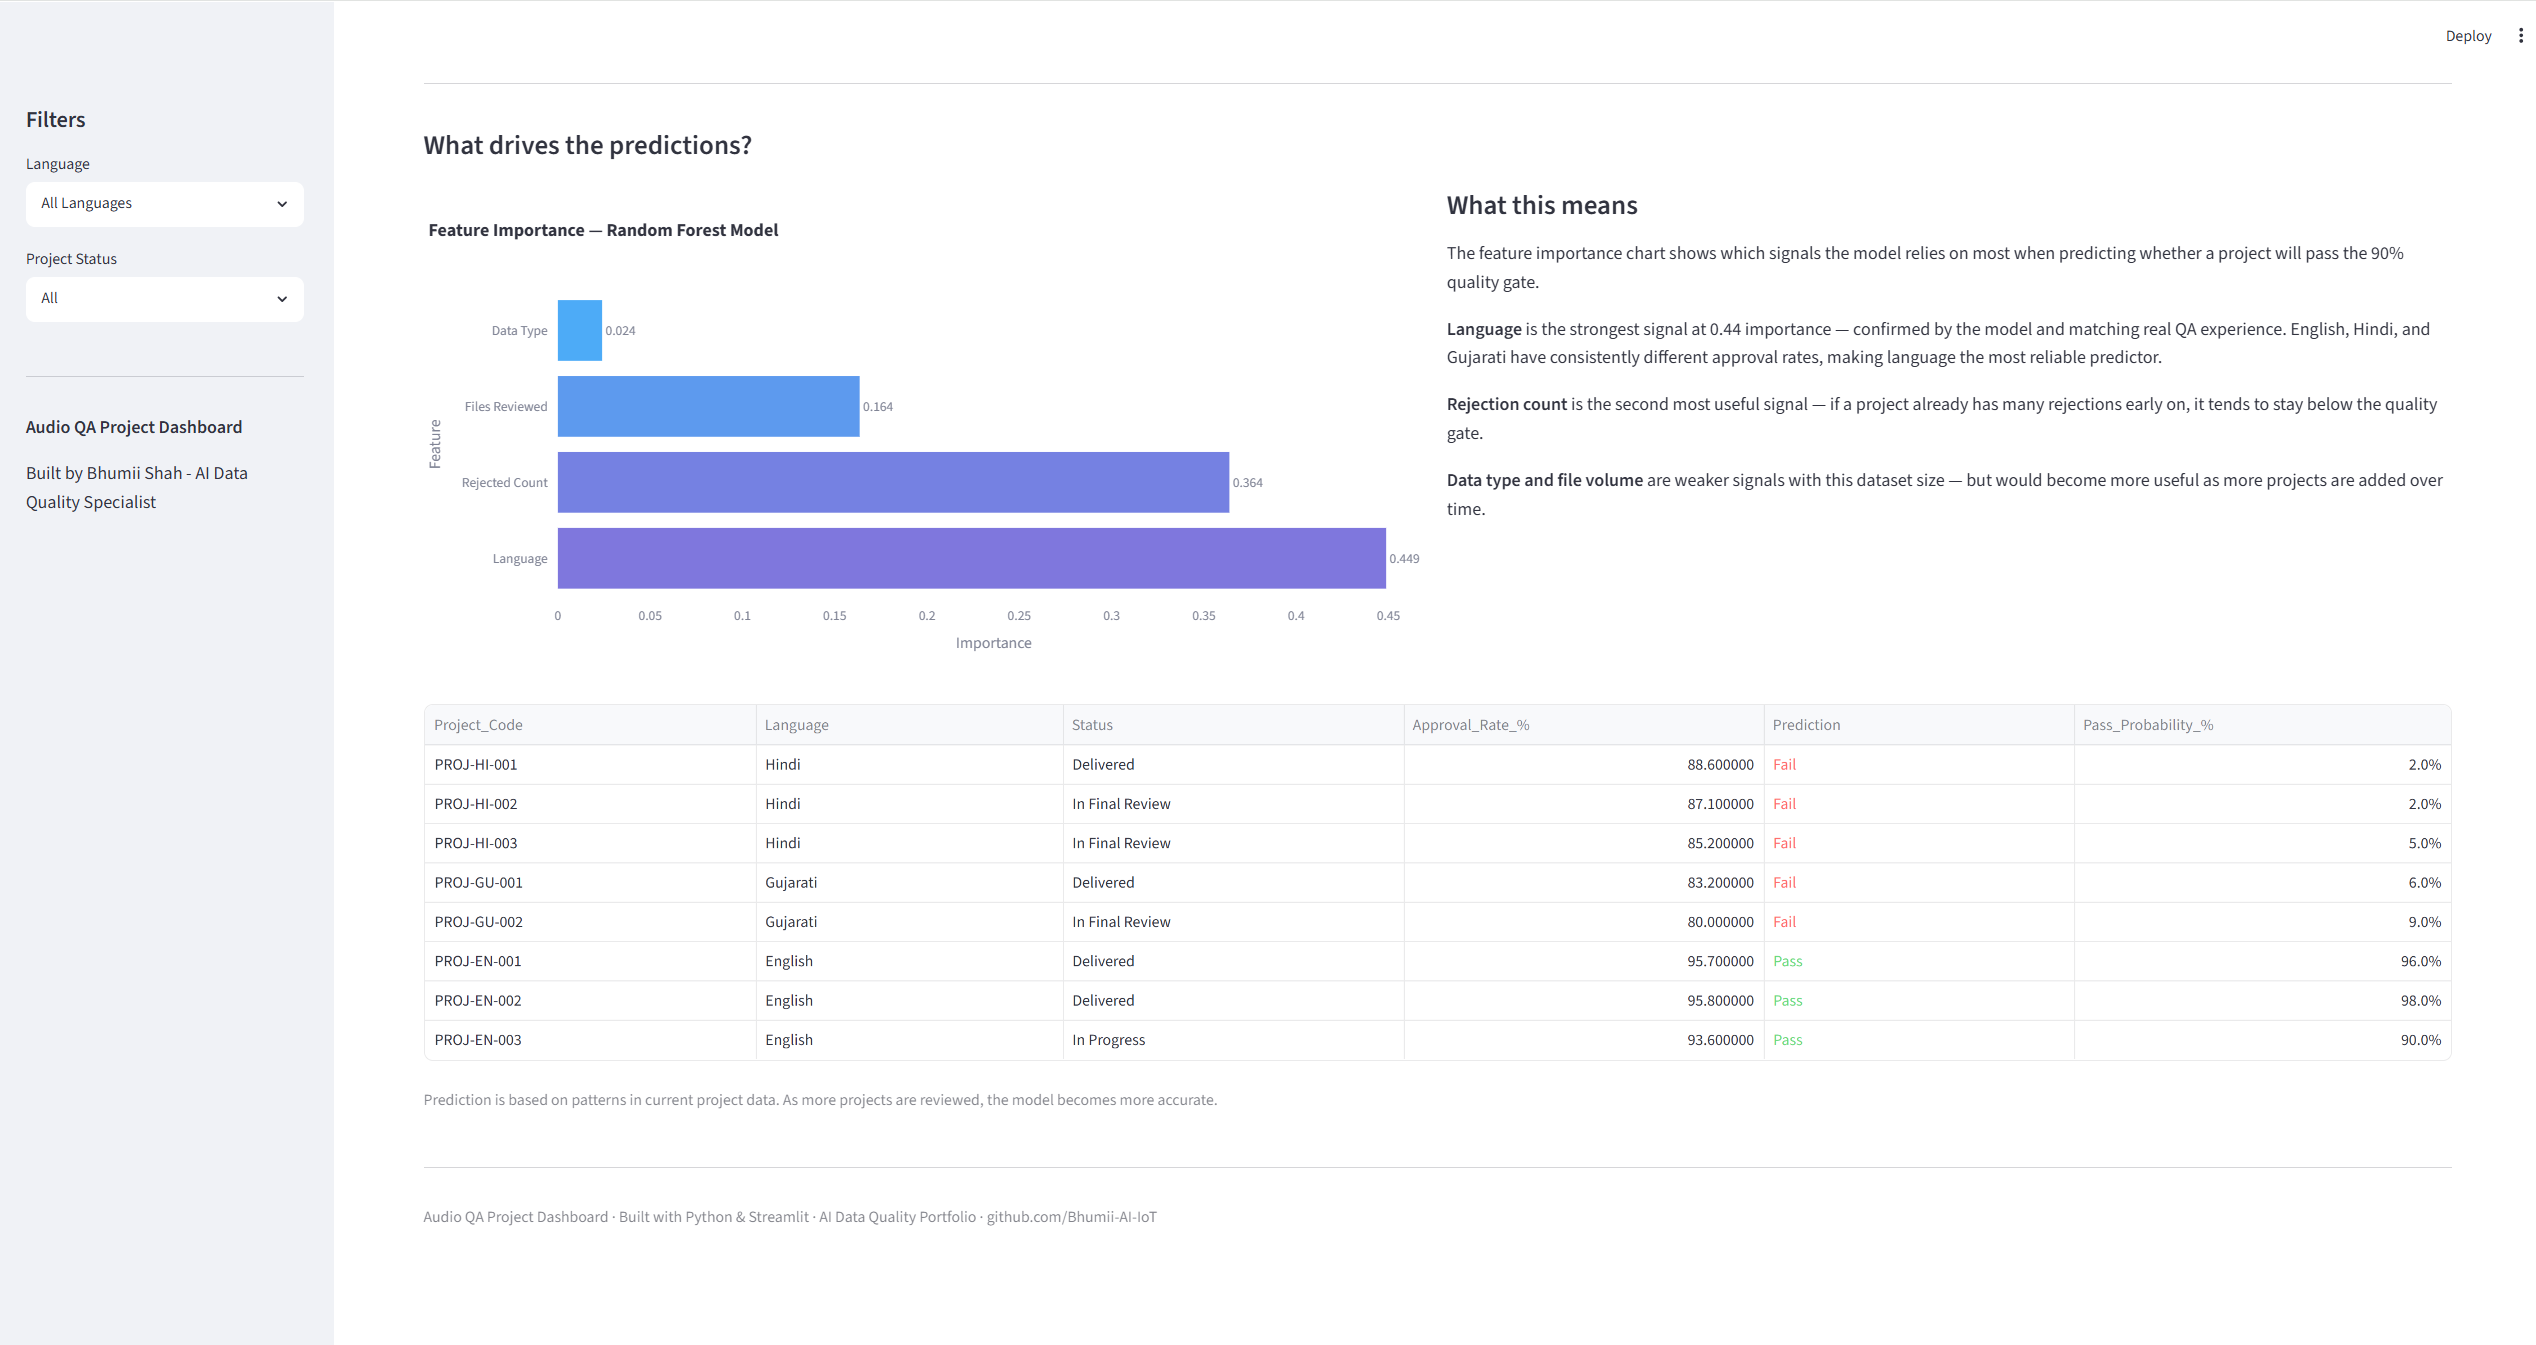
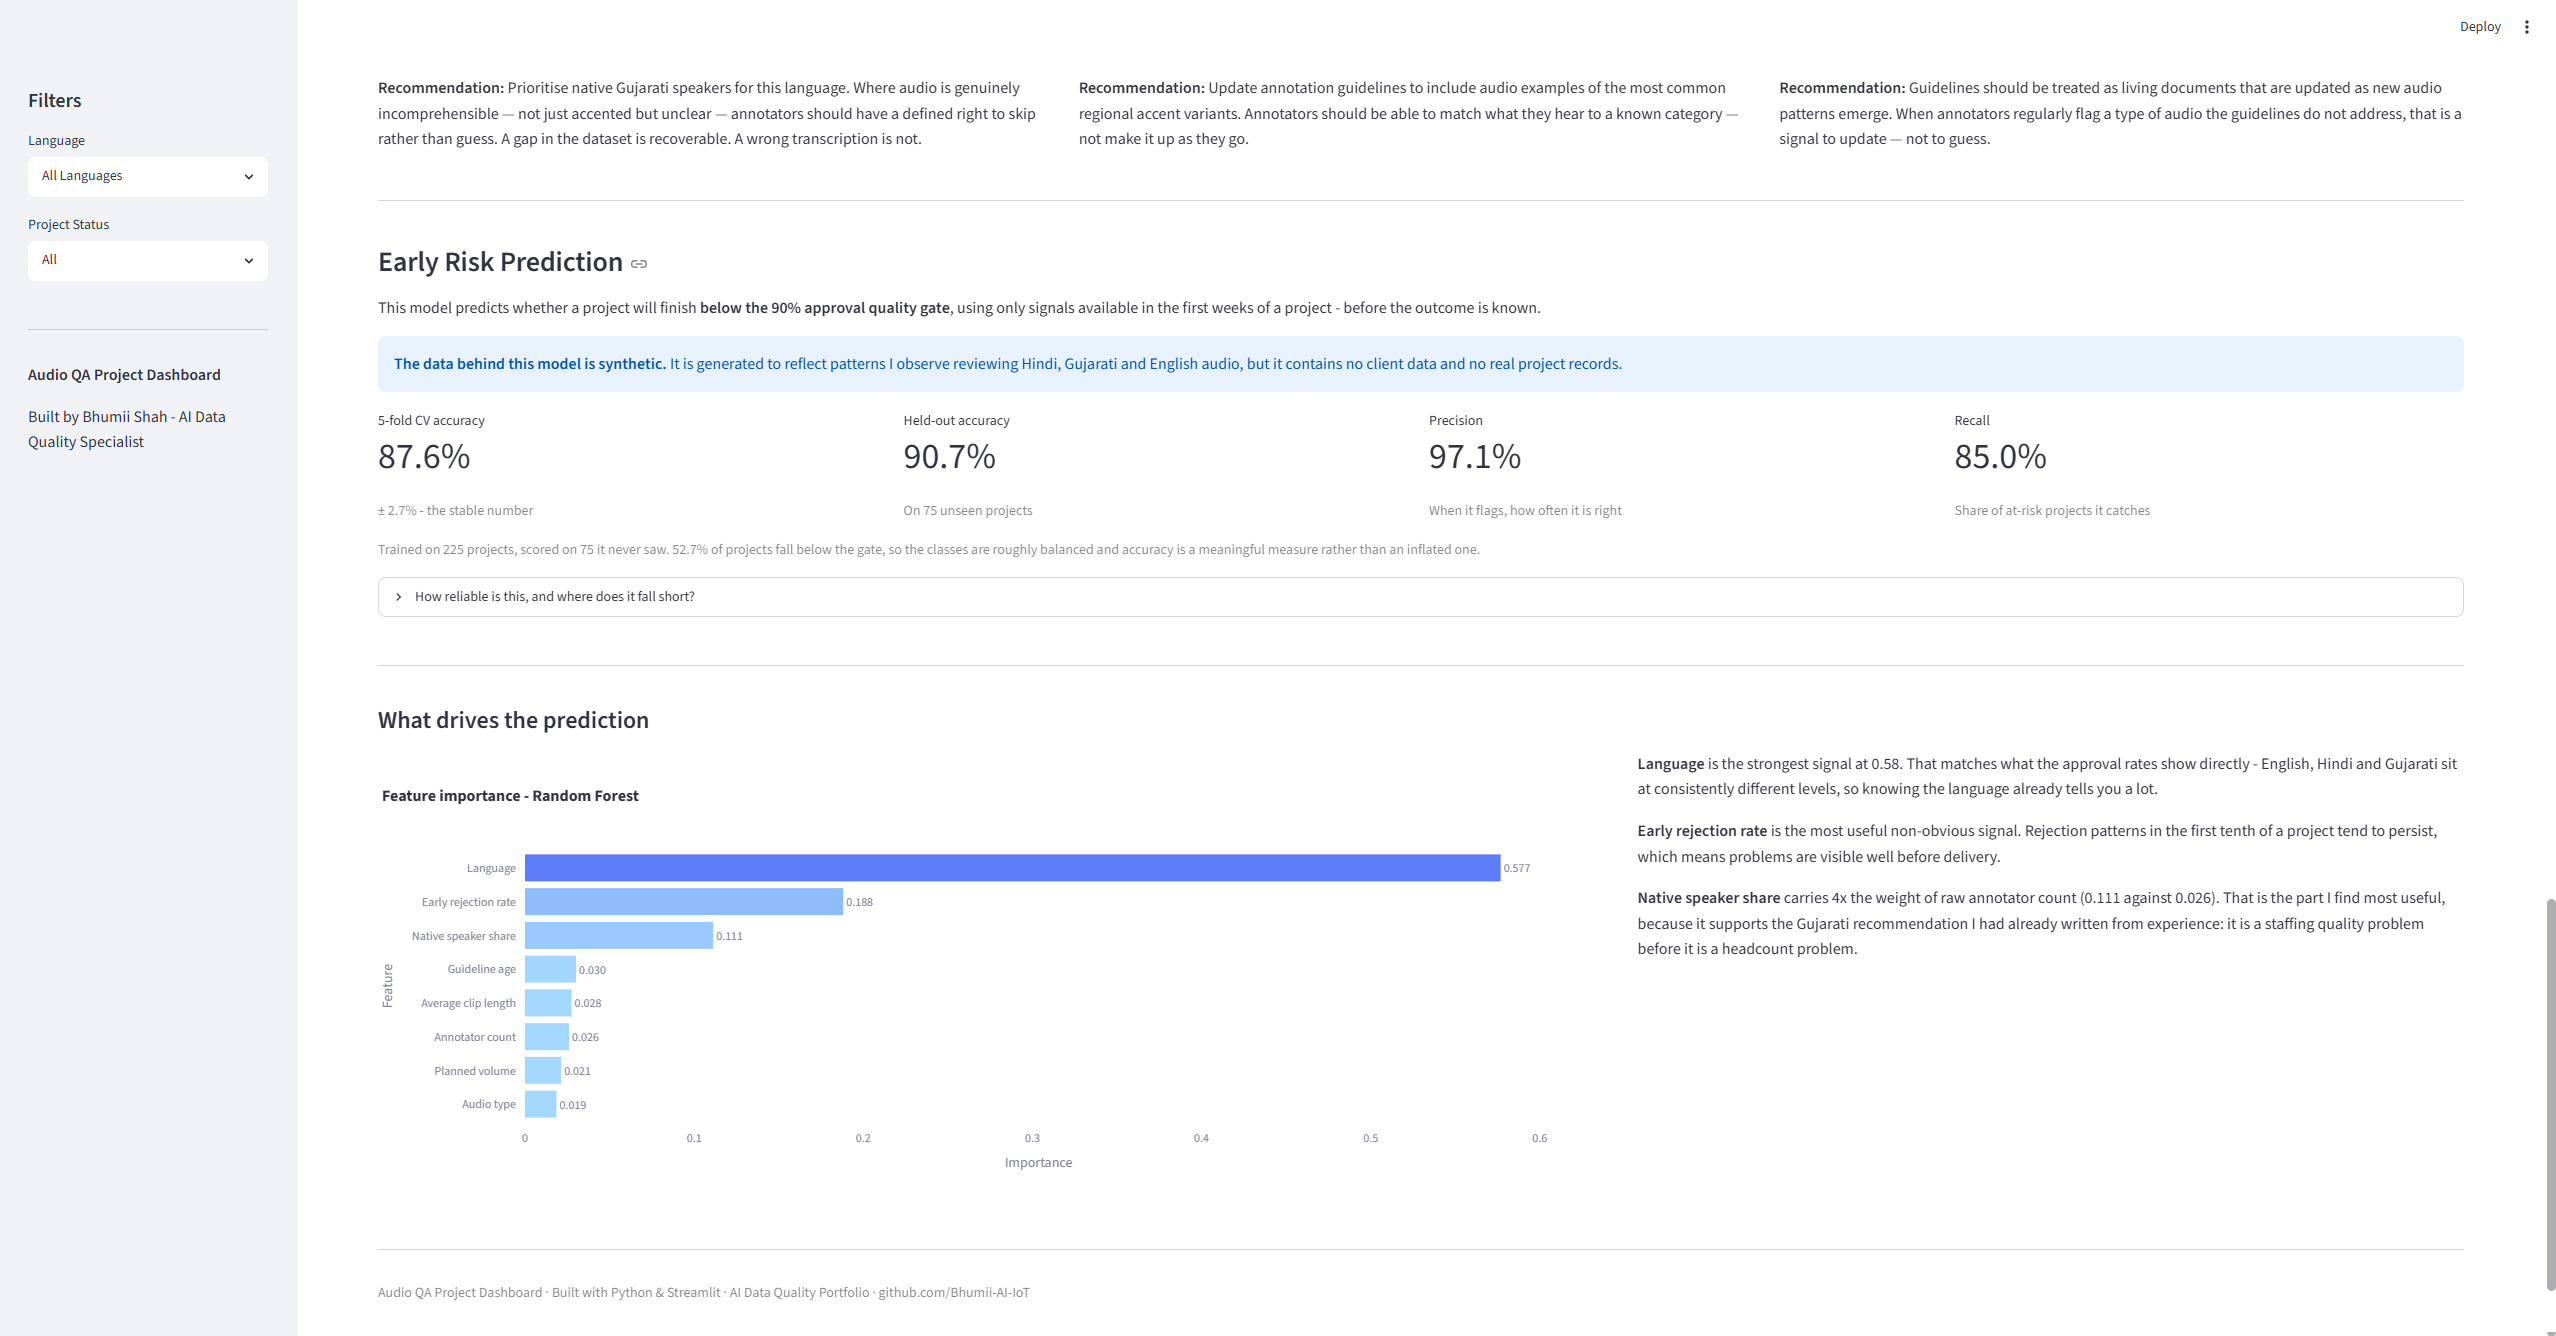
update screenshot and heading for corrected ML section

diff --git a/README.md b/README.md
@@ -34,7 +34,7 @@ Audio data quality is not just about catching errors. It is about understanding 
 ### Overview & QA Metrics
 ![Dashboard Top](assets/dashboard-top.png)
 
-### Project Tracker, Risk Flags & Recommendations
+### Recommendations & Early Risk Prediction
 ![Dashboard Bottom](assets/dashboard-bottom.png)
 
 ## Project Architecture
@@ -48,7 +48,7 @@ Audio data quality is not just about catching errors. It is about understanding 
 - **Rejection Reason Breakdown** — the most common errors caught during final QA review
 - **Project Tracker** — delivery status across all active projects
 - **Risk Flag Monitor** — open blockers with severity levels and descriptions
-- **ML Risk Predictions** — a Random Forest model predicts which projects are likely to pass or fail the 90% quality gate based on language, data type, file volume, and rejection count
+- **Early Risk Prediction** — a Random Forest model predicts which projects will finish below the 90% quality gate, using only signals available in the first weeks of a project
 - **Recommendations** — based on real patterns observed during daily QA review
 
 ## Key Findings
@@ -61,8 +61,9 @@ These are not things I read somewhere — they come from doing the reviews mysel
 
 ## ML Model - Risk Prediction
 
-The dashboard includes a Random Forest classifier that predicts which projects 
-are at risk of failing the 90% quality gate.
+The dashboard includes a Random Forest classifier that predicts which
+projects will finish below the 90% quality gate — using only signals
+available in the first weeks, before the outcome is known.
 
 **Why Random Forest:**
 - Handles mixed data types (language category + numeric metrics)
@@ -73,12 +74,61 @@ are at risk of failing the 90% quality gate.
 **Features the model uses:**
 - Language (Hindi, Gujarati, English)
 - Audio data type
-- File volume
-- Rejection count and patterns
+- Planned file volume
+- Annotator count and native speaker share
+- Guideline age
+- Rejection rate on the first 10% of files
+
+**Performance:**
+
+| Metric | Score |
+|---|---|
+| 5-fold cross-validation | 87.6% (± 2.7%) |
+| Held-out accuracy | 90.7% on 75 unseen projects |
+| Precision | 97.1% |
+| Recall | 85.0% |
+
+I lead with the cross-validation figure rather than the held-out one.
+When I reran the training across seven different random seeds, held-out
+accuracy moved between 80% and 91% — the 90.7% is the top of that range.
+Cross-validation re-splits and averages, so it moves far less. 87.6% is
+the number I would defend.
+
+**Note on the data:** the project history behind this model is synthetic.
+It is generated to reflect patterns I observe reviewing Hindi, Gujarati
+and English audio, but it contains no client data and no real project
+records.
 
 **Result:**
-Projects at risk are flagged before final review, giving teams time to improve 
-rather than discovering problems at the end.
+Projects at risk are flagged before final review, giving teams time to
+improve rather than discovering problems at the end.
+
+## What I Got Wrong First
+
+The first version of this model reported 100% accuracy and I was pleased
+with it. It was wrong, and the mistake is worth writing down.
+
+I gave the model `Files_Reviewed` and `Rejected` as inputs, then asked it
+to predict whether approval rate fell below 90%. But approval rate is
+calculated as:
+
+approval_rate = 1 - (rejected / files_reviewed)
+
+So the two features I handed it were the two numbers the answer is
+calculated from. It scored 100% because it was doing division, not
+learning. This is called **target leakage**.
+
+The part that took me longest to accept: more data would not have fixed
+this, and neither would a train/test split. The leak was in the features
+themselves, so it travels into the test set with them.
+
+The fix was to change the question. Instead of *"given the finished
+numbers, did it fail?"* — which you already know — the model now answers
+*"given the setup and the first batch, will it fail?"* That version is
+worth having, because there is still time to act on the answer.
+
+This was flagged in peer review. Catching it changed how I look at every
+feature I put into a model: can I actually know this before the outcome?
 
 ## Tech Stack
 
